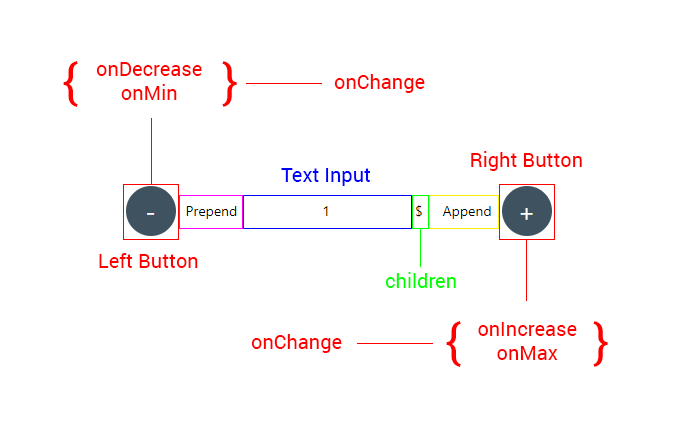
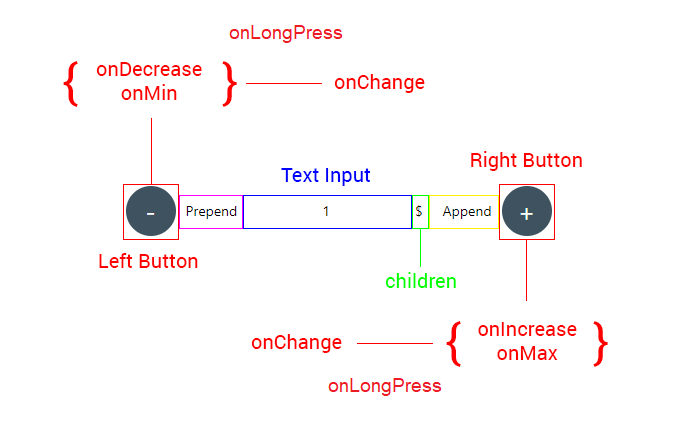
docs: add on long press and skins screenshots

Changed region(s): [[0.4592, 0.8647, 0.6429, 0.9243], [0.3367, 0.0596, 0.5204, 0.0894]]

diff --git a/README.md b/README.md
@@ -58,7 +58,9 @@ For more examples check the `Example` directory the `App.js` file
 
 ### High customization
 
-<img src="images/customization.png" />
+| Skins                                     | Customization                          |
+| ----------------------------------------- | -------------------------------------- |
+| <img src="images/skins.png" width="300"/> | <img src="images/customization.png" /> |
 
 ## ⚡ Run example
 
